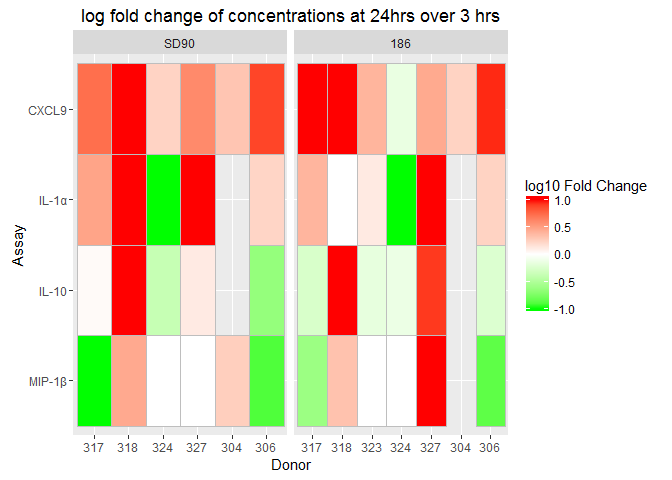
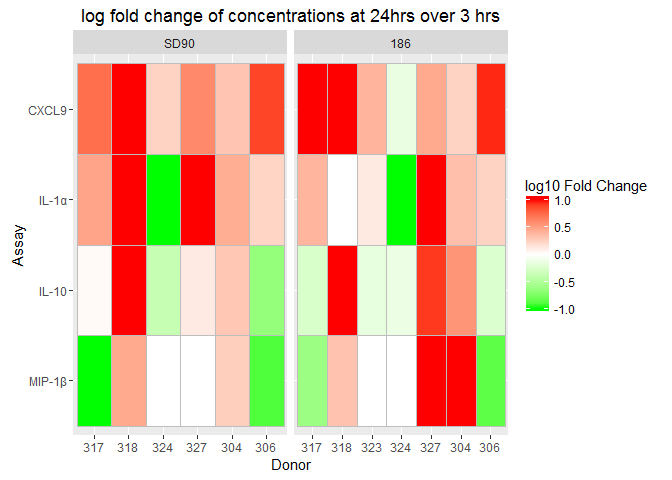
replaced missing values (below LOD) in LMF's data with miniumum conc for that analyte minus 10% so they would show up on the heat map.

Changed region(s): [[0.6562, 0.3125, 0.7188, 0.9062], [0.3125, 0.3125, 0.375, 0.7188]]

diff --git a/MSD_panels_1_2_3_explant_sup_analysis.md b/MSD_panels_1_2_3_explant_sup_analysis.md
@@ -82,13 +82,25 @@ We did a 1:5 dilution of the samples so I multiplied the concentrations by 5 to 
 
 If a sample had one rep that was below detection and another that was in range, I used the remaining "in range" rep as the "average" for that sample.
 
+Note we did not have supernatents for:
+
+Donor 323 for SD90, all time points
+
+Donor 326 for SD90 and 186, 3hr and 8hr
+
 ![](MSD_panels_1_2_3_explant_sup_analysis_files/figure-markdown_github/scatter%20plots%20of%20mocksubtracted-1.png)
 
-This is just donors 317,318,323 and 324, which were interesting in the microarray
+This is just donors 317,318,323 and 324, which were interesting in the microarray.
 
 ![](MSD_panels_1_2_3_explant_sup_analysis_files/figure-markdown_github/subset%20scatter%20plots-1.png)
 
 Note that in these heat maps, the maximum intensity is a fold change of 1 or -1. Any values that were above 1 were set to 1 and any below -1 were set to -1.
+
+Also note we were missing supernatents for:
+
+Donor 323 for SD90, all time points
+
+Donor 326 for SD90 and 186, 3hr and 8hr
 
 ![](MSD_panels_1_2_3_explant_sup_analysis_files/figure-markdown_github/logFC%20heatmap-1.png)
 
@@ -96,4 +108,16 @@ Here is the same heat map with some changes to to Assay names and order:
 
 ![](MSD_panels_1_2_3_explant_sup_analysis_files/figure-markdown_github/rename%20analytes%20logFC%20heatmap-1.png)
 
-This is a heat map showing the same data as above, but fewer analytes and with Lamar's explant 304 and 306 data added in. The gray areas are there because we were missing some data from explant 304 because it was presumably below the LOD (i.e. no concentration was given in Lamar's spreadsheet). ![](MSD_panels_1_2_3_explant_sup_analysis_files/figure-markdown_github/LMF_CL%20data%20log%20FC%20heatmap-1.png)
+This is a heat map showing the same data as above, but fewer analytes and with Lamar's explant 304 and 306 data added in.
+
+Lamar's data did not have average concentrations for the following samples, probably becuse the electronic signal was below the level of detection:
+
+MIP1b: 304-3hr-186
+
+IL-1a: 304-3hr-186, 304-3hr-SD90, 304-3hr-Mock
+
+IL-10: 304-3hr-Mock
+
+In order to reflect on the heat map that these samples had low values, I set the average concentrations to 10% below the minimum average concentration for the analyte of interest. I.e. I set the average concentration of MIP1b for sample 304-3hr-186 to 0.076, which is 10% less than the minimum MIP1b average concentration from among all the MIP1b samples where we *did* have data.
+
+![](MSD_panels_1_2_3_explant_sup_analysis_files/figure-markdown_github/LMF_CL%20data%20log%20FC%20heatmap-1.png)
